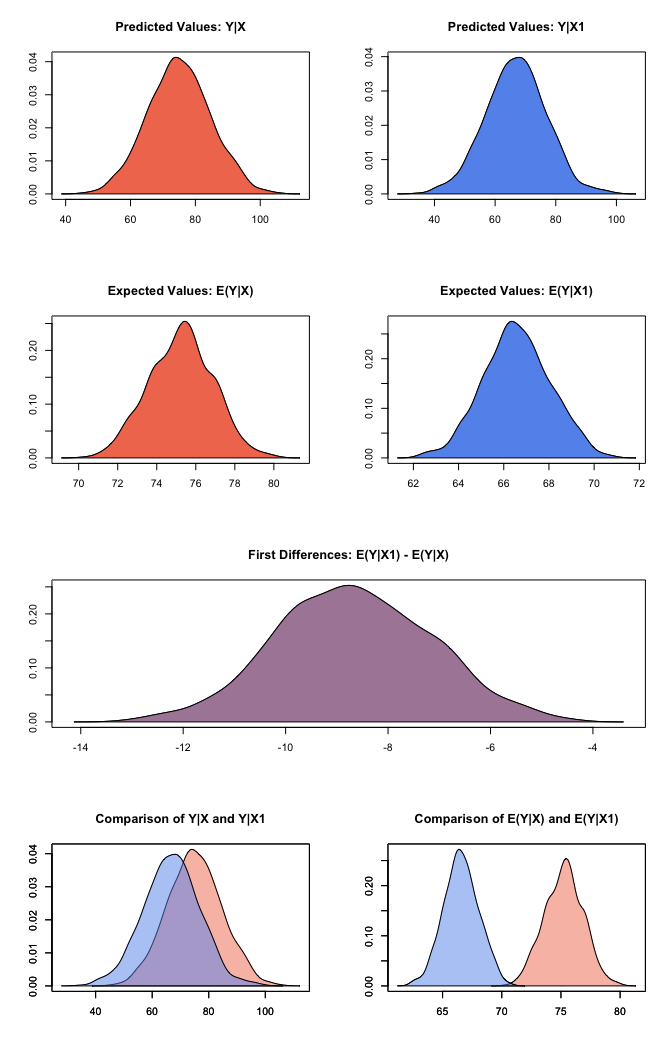
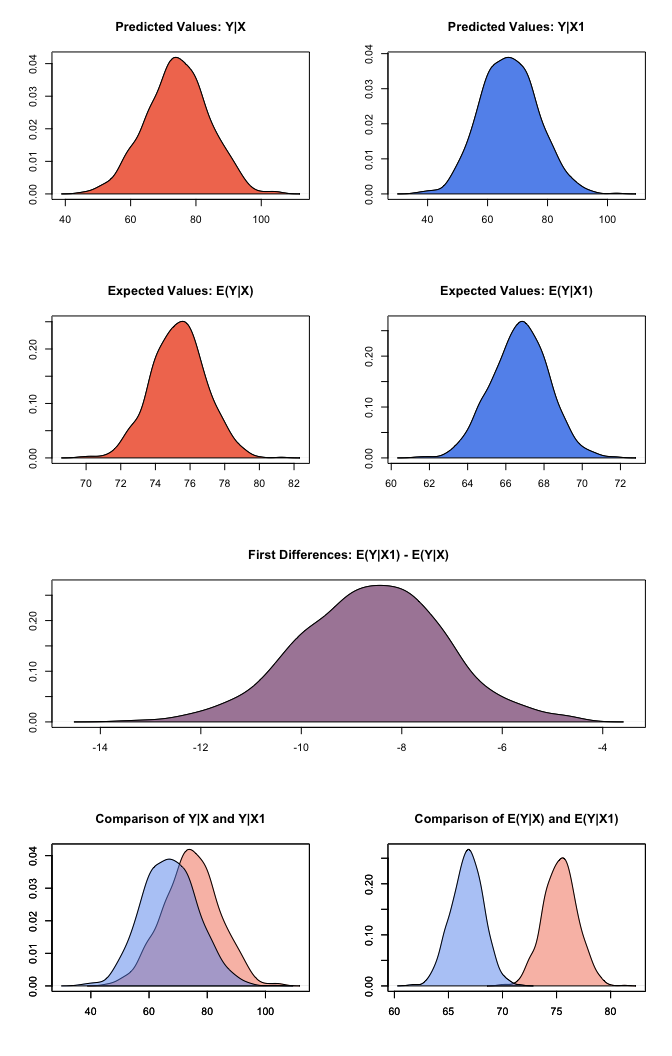
readme compile update

diff --git a/README.md b/README.md
@@ -116,8 +116,25 @@ arguments: equation and data:
     # model summary
     summary(z5)
 
-    ##   Length    Class     Mode 
-    ##        1 Zelig-ls       S4
+    ## Model: 
+    ## 
+    ## Call:
+    ## z5$zelig(formula = Fertility ~ Education, data = swiss)
+    ## 
+    ## Residuals:
+    ##     Min      1Q  Median      3Q     Max 
+    ## -17.036  -6.711  -1.011   9.526  19.689 
+    ## 
+    ## Coefficients:
+    ##             Estimate Std. Error t value Pr(>|t|)
+    ## (Intercept)  79.6101     2.1041  37.836  < 2e-16
+    ## Education    -0.8624     0.1448  -5.954 3.66e-07
+    ## 
+    ## Residual standard error: 9.446 on 45 degrees of freedom
+    ## Multiple R-squared:  0.4406, Adjusted R-squared:  0.4282 
+    ## F-statistic: 35.45 on 1 and 45 DF,  p-value: 3.659e-07
+    ## 
+    ## Next step: Use 'setx' method
 
 The -0.8624 coefficient on education suggests a negative relationship
 between the education of a province and its fertility rate. More
@@ -141,8 +158,14 @@ predictor value using the `setx()` method:
     # model summary
     summary(z5)
 
-    ##   Length    Class     Mode 
-    ##        1 Zelig-ls       S4
+    ## setx:
+    ##   (Intercept) Education
+    ## 1           1         5
+    ## setx1:
+    ##   (Intercept) Education
+    ## 1           1        15
+    ## 
+    ## Next step: Use 'sim' method
 
 After setting our predictor value, we simulate using the `sim()` method:
 
@@ -152,8 +175,27 @@ After setting our predictor value, we simulate using the `sim()` method:
     # model summary
     summary(z5)
 
-    ##   Length    Class     Mode 
-    ##        1 Zelig-ls       S4
+    ## 
+    ##  sim x :
+    ##  -----
+    ## ev
+    ##       mean       sd      50%     2.5%    97.5%
+    ## 1 75.33977 1.571343 75.33959 72.33016 78.37829
+    ## pv
+    ##          mean       sd      50%     2.5%    97.5%
+    ## [1,] 74.42696 9.607148 74.46035 55.99737 92.53069
+    ## 
+    ##  sim x1 :
+    ##  -----
+    ## ev
+    ##       mean       sd      50%     2.5%    97.5%
+    ## 1 66.73705 1.495792 66.77066 63.80229 69.60119
+    ## pv
+    ##          mean       sd      50%     2.5%    97.5%
+    ## [1,] 67.22645 9.549715 67.02027 49.37432 86.29407
+    ## fd
+    ##        mean       sd       50%      2.5%    97.5%
+    ## 1 -8.602715 1.444438 -8.550582 -11.51066 -5.68529
 
 At this point, we’ve estimated a model, set the predictor value, and
 estimated easily interpretable quantities of interest. The `summary()`
